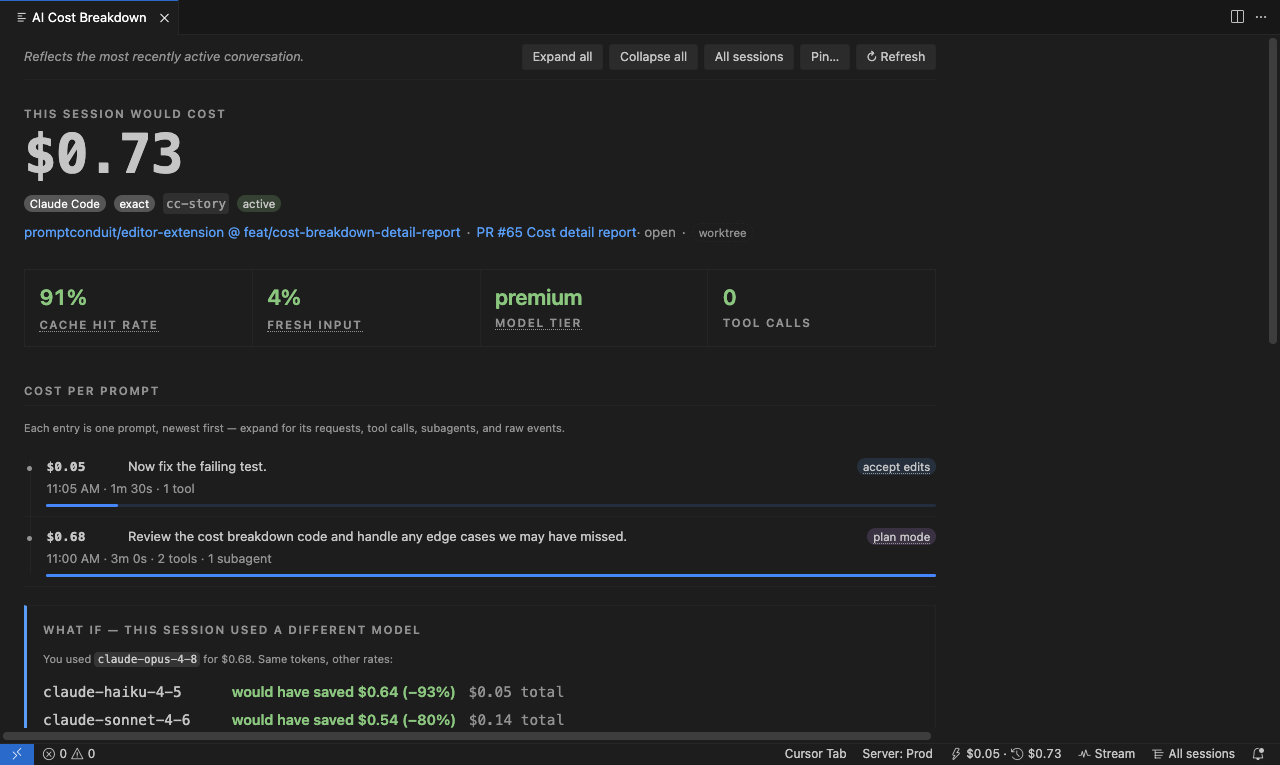
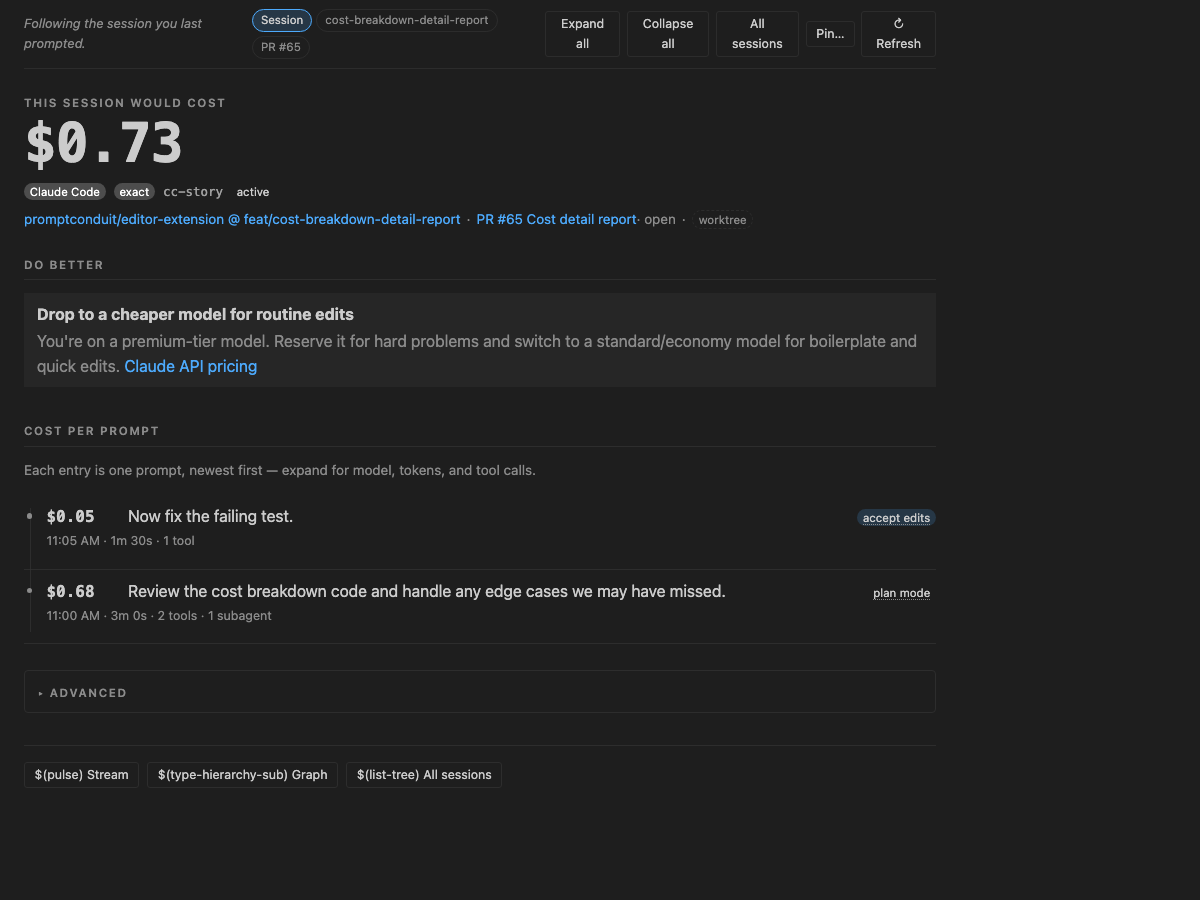
docs: refresh Open VSX listing for v0.21.0 simplified cost UX (#95)
Lead with cost-per-prompt in package description and README, document
scope chips and Advanced drawer, add 0.21.0 changelog entry, and update
cost breakdown screenshots from the new panel layout.

diff --git a/README.md b/README.md
@@ -1,19 +1,9 @@
 # PromptConduit
 
-Local, real-time visibility into your AI coding sessions — **computed entirely on
-your machine**. PromptConduit is a growing set of in-editor surfaces over the
-same local data your AI assistant already produces:
-
-- **Realtime token cost** — `⚡ <request cost> · 🕘 <session cost>` in the
-  status bar, with a click-through **AI Cost Breakdown** panel.
-- **Orchestration Theater** — a 3D replay of how your agents actually work:
-  sub-agents spawning, tool calls reaching out to fetch URLs / read-write files /
-  hit cloud APIs, with hover cards linking the GitHub issue and PR behind each
-  node. Run **"PromptConduit: Show Orchestration Theater"** from the command
-  palette.
-
-Everything reads the local event log (`~/.promptconduit/events.jsonl`); none of
-your code or prompts leave your device.
+**See what each AI prompt costs** — computed entirely on your machine. One click
+from the status bar opens a per-prompt cost ledger with coaching tips and
+optional branch/PR scopes. Everything reads your local event log
+(`~/.promptconduit/events.jsonl`); none of your code or prompts leave your device.
 
 ## Install
 
@@ -30,22 +20,26 @@ The extension drives the `promptconduit` CLI, so install that too — see
 
 ## Screenshots
 
-**AI Cost Breakdown** — a per-prompt ledger with cache/tier signals and a
-"what if" model comparison.
+**AI Cost Breakdown** — per-prompt ledger, one coaching tip up front, Session /
+This branch / This PR scope chips. Raw JSON and what-if comparisons live in an
+Advanced drawer.
 
 ![AI Cost Breakdown panel in Cursor](https://raw.githubusercontent.com/promptconduit/editor-extension/main/resources/screenshots/cost-breakdown-window.png)
 
-**Orchestration Theater** — a 3D replay of sub-agents spawning and tool calls
-fanning out.
+**Session Graph** — a live tree of prompts, tools, subagents, and worktrees
+(command palette: *PromptConduit: Show Session Graph*).
 
-![Orchestration Theater panel in Cursor](https://raw.githubusercontent.com/promptconduit/editor-extension/main/resources/screenshots/orchestration-theater-window.png)
-
-**Stream** — a live event feed that follows your most-recently-active AI session.
+**Stream** — a live event feed (command palette: *PromptConduit: Show Stream Panel*).
 
 ![Stream panel in Cursor](https://raw.githubusercontent.com/promptconduit/editor-extension/main/resources/screenshots/stream-window.png)
 
-**Agent Coaching** — an offline report on how you drive the agent (interruptions,
-plan-mode use, tool success, subagents).
+**Orchestration Theater** — a 3D replay of sub-agents spawning and tool calls
+fanning out (command palette: *PromptConduit: Show Orchestration Theater*).
+
+![Orchestration Theater panel in Cursor](https://raw.githubusercontent.com/promptconduit/editor-extension/main/resources/screenshots/orchestration-theater-window.png)
+
+**Agent Coaching** — an offline report on how you drive the agent (command palette:
+*PromptConduit: Show Agent Coaching*).
 
 ![Agent Coaching panel in Cursor](https://raw.githubusercontent.com/promptconduit/editor-extension/main/resources/screenshots/agent-coaching-window.png)
 
@@ -56,33 +50,37 @@ it for the **AI Cost Breakdown** panel.
 
 ## The AI Cost Breakdown panel
 
-The breakdown is an estimate of what your session would cost at **pay-as-you-go
-API rates** — *"this is what the same tokens would bill à la carte if you
-weren't on a subscription."* It's also an educational tool for spending fewer
-tokens:
+The breakdown estimates what your session would cost at **pay-as-you-go API
+rates** — useful whether you're on a subscription or paying per token.
 
-- **Cost per prompt** — every request as a row with a relative-cost bar, so the
-  expensive prompts stand out. Click one for its token split and cache stats.
-- **What's driving your cost** — a color-coded readout of cache-hit rate,
-  fresh-input share, model tier, and tool-call volume.
-- **Make it cheaper** — actionable tips, each linking the official docs for the
-  technique (prompt caching, model choice, batching).
-- **Reading these numbers** — edge cases (unpriced models, estimated vs. exact
-  counts, subscription-vs-API) explained, each with a concrete fix.
-- **Learn more** — the official Claude *and* Cursor cost docs, tool-aware: the
-  active assistant's links come first, but both are always shown.
+- **Cost per prompt** — every prompt as a row with a relative-cost bar. Expand
+  for model, tokens, and cache stats.
+- **Do better** — one actionable coaching tip for the session.
+- **Scope chips** — Session, **This branch** (your current feature branch), or
+  **This PR** (when `gh` has resolved an open PR on the branch).
+- **Advanced** (collapsed) — what-if model comparison, by-model table, raw event
+  JSON, and learn-more links.
 
 Works for **Claude Code** and **Cursor**.
 
+## More surfaces
+
+All available from the command palette (`⇧⌘P`):
+
+| Command | What it does |
+|---------|----------------|
+| Show Cost Breakdown | Per-prompt ledger (also via status bar) |
+| Show Stream Panel | Live event feed |
+| Show Session Graph | 2D tree of turns, tools, subagents |
+| Show Orchestration Theater | 3D replay of agent orchestration |
+| Show Agent Coaching | Offline coaching report |
+| Show All Sessions Cost | Multi-session overview |
+
 ## How it works
 
-The extension spawns the `promptconduit` CLI (`promptconduit cost watch --json`)
-scoped to your workspace and renders the cost records it streams on stdout. The
-CLI reads local AI transcripts, prices each turn against a bundled rate table,
-and writes nothing to any server. See `cli/internal/cost` for the engine.
-
-- **Claude Code** — exact token counts straight from the transcript (today).
-- **Cursor native agent** — estimate + reconcile (a later milestone).
+The extension tails `~/.promptconduit/events.jsonl` (written by the
+`promptconduit` CLI hooks) and prices each turn against a bundled rate table.
+See `cli/internal/cost` for the pricing engine.
 
 ## Requirements
 
@@ -98,7 +96,7 @@ If it isn't on your `PATH`, set `promptconduit.cost.binaryPath`.
 
 | Setting | Default | Description |
 |---|---|---|
-| `promptconduit.cost.enabled` | `true` | Show the status-bar cost item. |
+| `promptconduit.cost.enabled` | `true` | Show the realtime token-cost item in the status bar. |
 | `promptconduit.cost.binaryPath` | `""` | Override the CLI path (auto-detected otherwise). |
 
 ## Develop
@@ -109,26 +107,17 @@ npm run compile        # or: npm run watch
 ```
 
 Press **F5** in VS Code / Cursor to launch an Extension Development Host, open a
-folder where you run Claude Code, and watch the status bar update as you work.
+folder where you run Claude Code or Cursor agent, and watch the status bar update.
 
 ## Publishing
 
 Targets: **Open VSX** (for Cursor) and the **VS Code Marketplace**.
 
-One-time setup:
-1. Push this directory to its own GitHub repo (the `repository` field in
-   `package.json` points at `promptconduit/editor-extension`).
-2. Create access tokens and add them as repo **secrets**:
-   - `OVSX_TOKEN` — Open VSX token from <https://open-vsx.org> (namespace must exist:
-     `npx ovsx create-namespace promptconduit`).
-   - `VSCE_PAT` — VS Code Marketplace PAT from <https://marketplace.visualstudio.com/manage>
-     (create the `promptconduit` publisher first).
-
 Release: bump `version` in `package.json`, commit, then tag — the `Publish`
-workflow does the rest:
+workflow publishes to Open VSX automatically:
 
 ```bash
-git tag v0.1.0 && git push origin v0.1.0
+git tag v0.21.0 && git push origin v0.21.0
 ```
 
 Or publish locally:

diff --git a/CHANGELOG.md b/CHANGELOG.md
@@ -2,13 +2,24 @@
 
 ## Unreleased
 
-- **Extension funnel instrumentation.** All outbound `promptconduit.dev` links from
-  the cost panel and coaching panel now carry UTM params (`utm_source=extension`,
-  `utm_medium=cost_panel|coaching`, `utm_campaign=…`) so we can attribute
-  extension-driven traffic in analytics. No activation pings or background
-  telemetry — cost tracking remains 100% local.
-- **Accurate Pro & Team upsell copy** in the cost panel zero-state, with pricing
-  ($10/mo Pro, $15/seat Team) and links to `/pricing` and the app getting-started flow.
+## 0.21.0
+
+- **Simpler cost home — cost per prompt first.** One status-bar item
+  (`⚡ request · session`) opens a focused **AI Cost Breakdown**: per-prompt
+  ledger, one coaching tip, and Session / This branch / This PR scope chips.
+  What-if comparisons, by-model tables, and raw JSON move into a collapsed
+  **Advanced** drawer. Stream, Graph, and All sessions remain in the command
+  palette and panel footer.
+- **Cursor prompts captured.** Agent and Composer turns now show real prompt
+  text in the ledger (via `beforeSubmitPrompt`) instead of "(uncaptured turn)".
+- **Branch and PR spend scopes.** Roll up session cost for your current git
+  branch or open GitHub PR (when `gh` has resolved one). PR scope is GitHub-only
+  today; branch scope works on any git host.
+- **Stream readability.** Collapsed `preToolUse`/`postToolUse` pairs into single
+  rows in the activity feed.
+- **Extension funnel instrumentation.** Outbound `promptconduit.dev` links carry
+  UTM params for attribution. No activation pings — cost tracking remains 100% local.
+- **Accurate Pro & Team upsell copy** in the cost panel zero-state.
 
 ## 0.20.1
 
